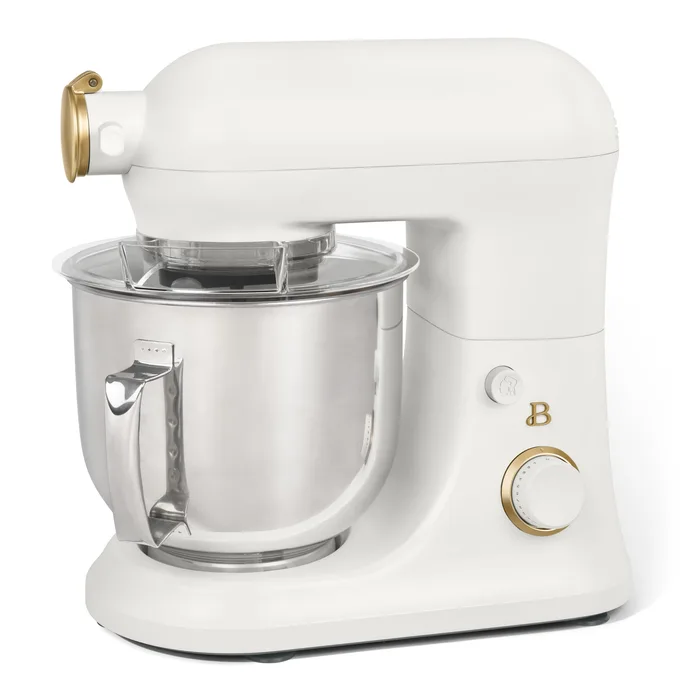
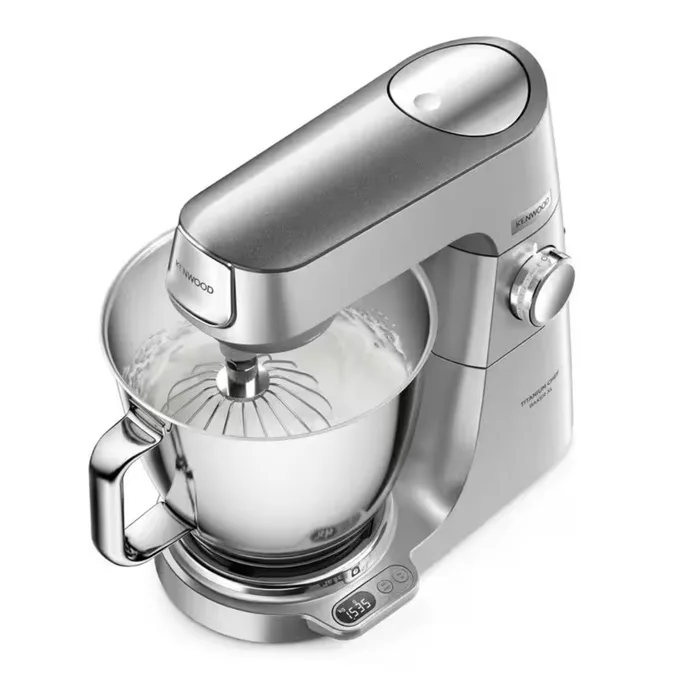
Remplace le robot cuisine et scinde le set de verres en cinq cadeaux
Nouvelle photo pour le robot cuisine (Kenwood).

Remplace "Assemblage set verres a vin & eau" par cinq cadeaux distincts,
au meme endroit dans la liste :
- 8 Verres a vin (80 EUR)
- 8 Verres a eau (50 EUR)
- 6 Flutes a champagne (70 EUR)
- Duo de moulins sel et poivre (80 EUR)
- Porte Couteaux Magnetique (90 EUR)

diff --git a/src/data/gifts.js b/src/data/gifts.js
@@ -6,7 +6,11 @@ export const GIFTS = [
   { id: "c2",  img: "/gifts/c2.webp",  cat: { fr: "Cuisine", icon: "🍳" }, catEn: "Kitchen", name: { fr: "Air fryer", en: "Air fryer" }, amount: 200 },
   { id: "c3",  img: "/gifts/c3.webp",  cat: { fr: "Cuisine", icon: "🍳" }, catEn: "Kitchen", name: { fr: "Set casseroles", en: "Saucepan set" }, amount: 150 },
   { id: "c4",  img: "/gifts/c4.webp",  cat: { fr: "Cuisine", icon: "🍳" }, catEn: "Kitchen", name: { fr: "Set poêles", en: "Frying pan set" }, amount: 150 },
-  { id: "c5",  img: "/gifts/c5.webp",  cat: { fr: "Cuisine", icon: "🍳" }, catEn: "Kitchen", name: { fr: "Assemblage set verres à vin & eau", en: "Wine & water glasses set" }, amount: 200 },
+  { id: "c5",  img: "/gifts/c5.webp",  cat: { fr: "Cuisine", icon: "🍳" }, catEn: "Kitchen", name: { fr: "8 Verres à vin", en: "8 Wine glasses" }, amount: 80 },
+  { id: "c16", img: "/gifts/c16.webp", cat: { fr: "Cuisine", icon: "🍳" }, catEn: "Kitchen", name: { fr: "8 Verres à eau", en: "8 Water glasses" }, amount: 50 },
+  { id: "c17", img: "/gifts/c17.webp", cat: { fr: "Cuisine", icon: "🍳" }, catEn: "Kitchen", name: { fr: "6 Flûtes à champagne", en: "6 Champagne flutes" }, amount: 70 },
+  { id: "c18", img: "/gifts/c18.webp", cat: { fr: "Cuisine", icon: "🍳" }, catEn: "Kitchen", name: { fr: "Duo de moulins sel et poivre", en: "Salt and pepper mill duo" }, amount: 80 },
+  { id: "c19", img: "/gifts/c19.webp", cat: { fr: "Cuisine", icon: "🍳" }, catEn: "Kitchen", name: { fr: "Porte Couteaux Magnétique", en: "Magnetic knife holder" }, amount: 90 },
   { id: "c6",  img: "/gifts/c6.webp",  cat: { fr: "Cuisine", icon: "🍳" }, catEn: "Kitchen", name: { fr: "Carafe à eau", en: "Water carafe" }, amount: 100 },
   { id: "c7",  img: "/gifts/c7.webp",  cat: { fr: "Cuisine", icon: "🍳" }, catEn: "Kitchen", name: { fr: "Lave vaisselle", en: "Dishwasher" }, amount: 500 },
   { id: "c8",  img: "/gifts/c8.webp",  cat: { fr: "Cuisine", icon: "🍳" }, catEn: "Kitchen", name: { fr: "Cave à vin", en: "Wine fridge" }, amount: 600 },
